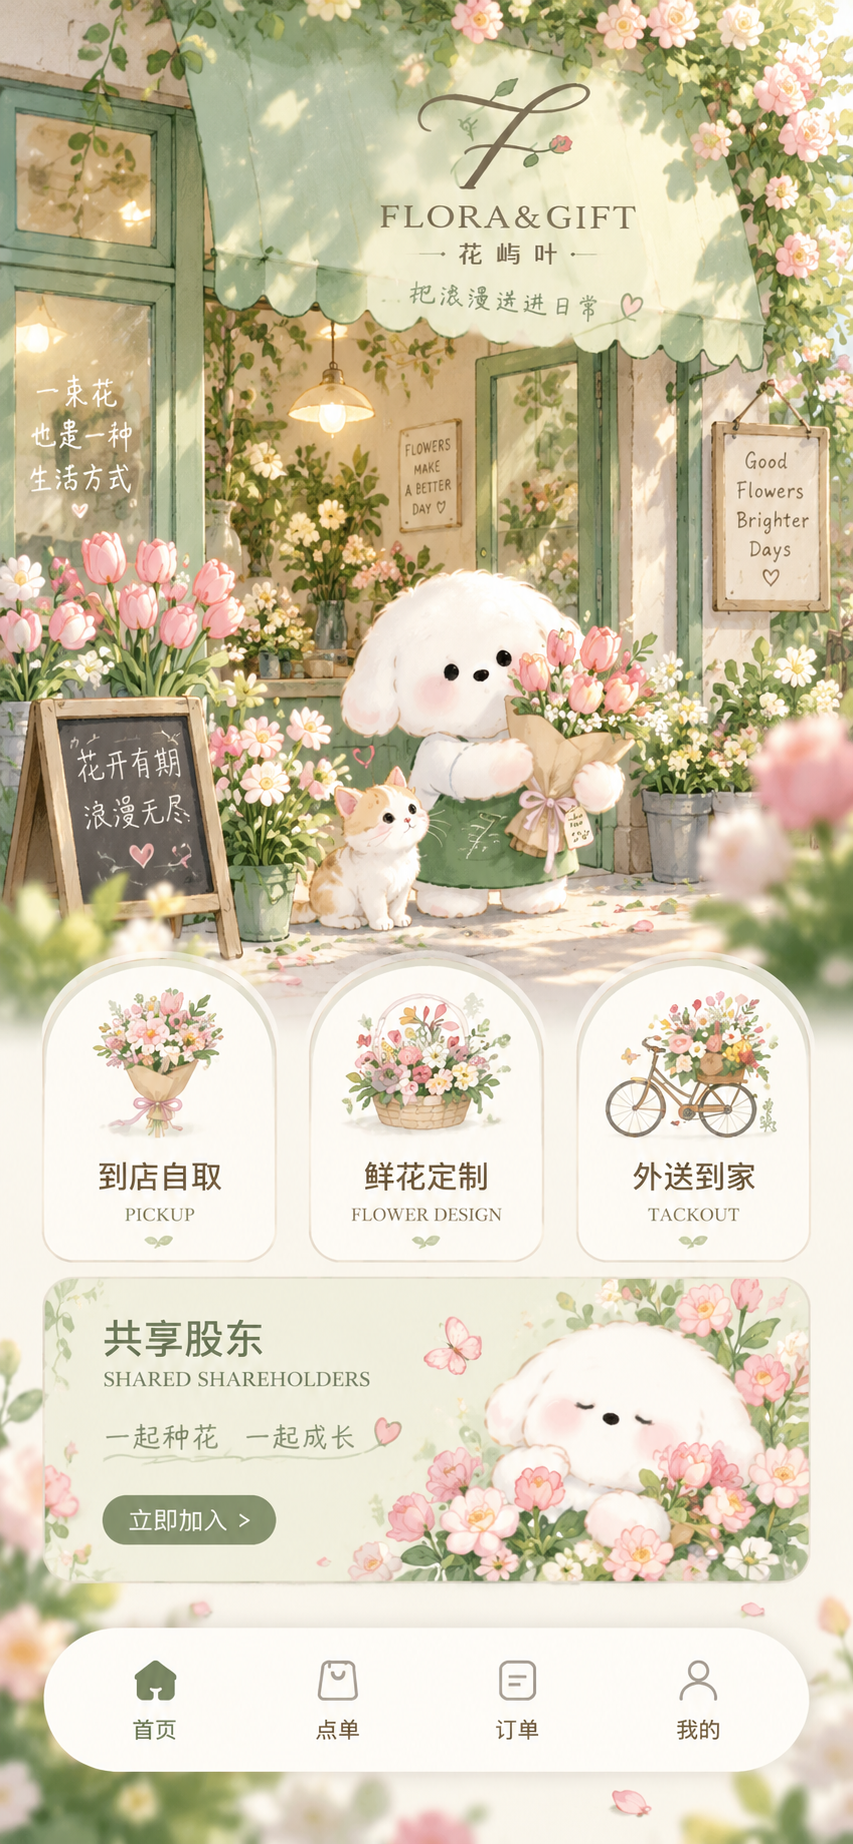
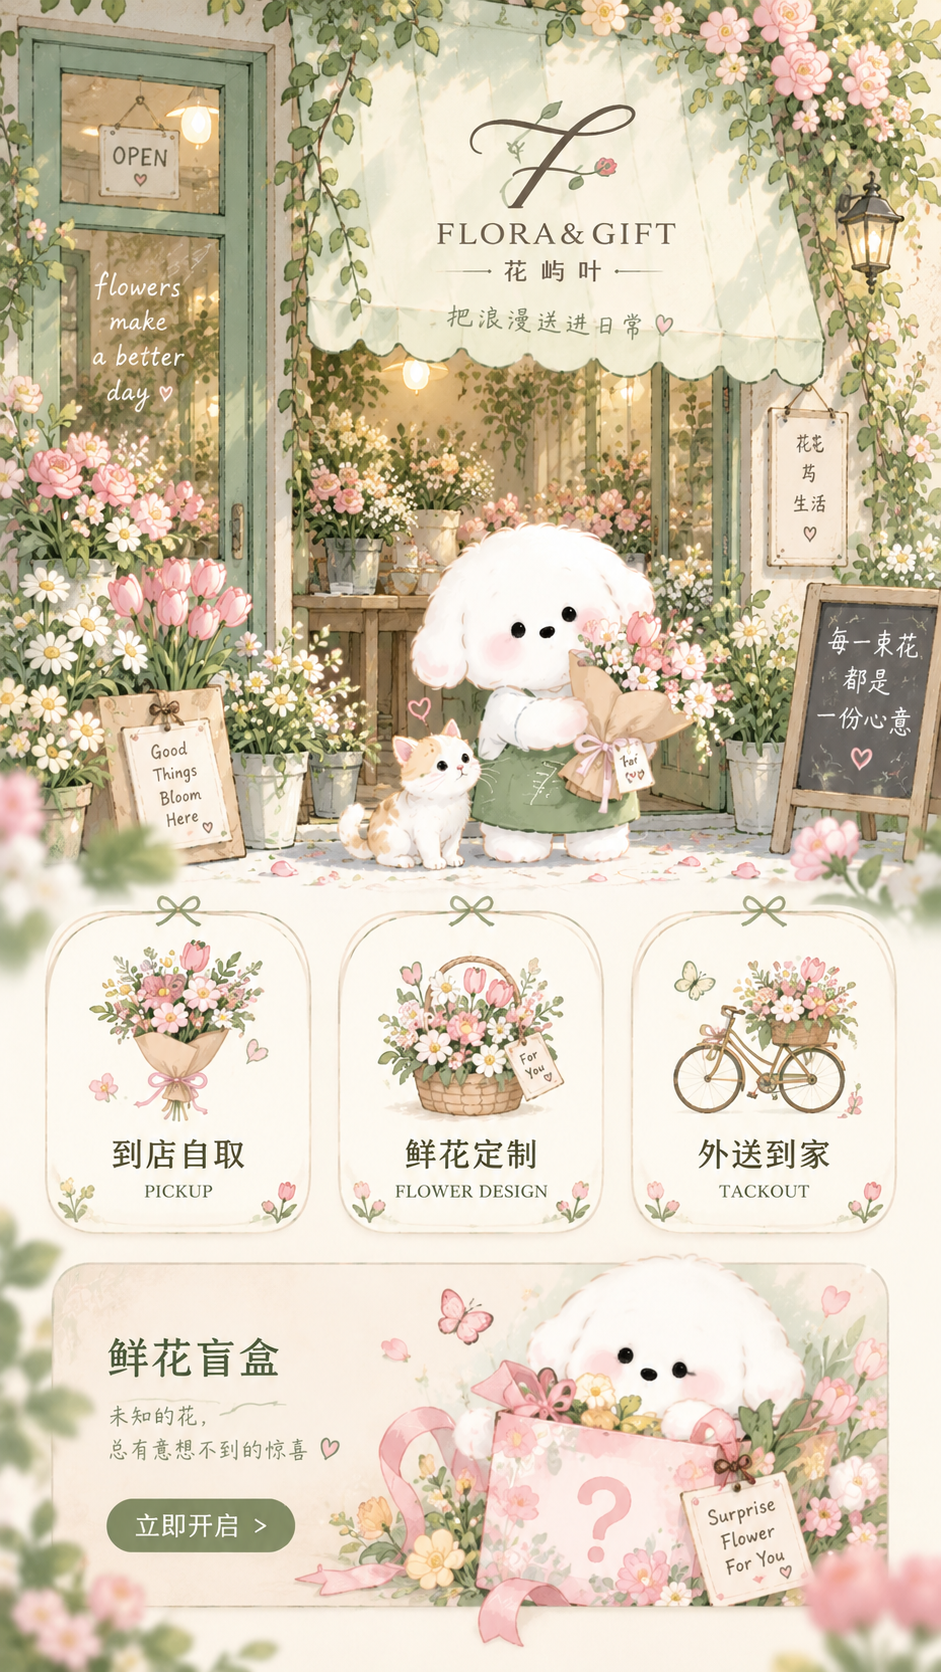
style: swap homepage poster to the new flora gift artwork
Replace the home hero image and retune hotspot regions for pickup,
custom, delivery, and the flower blind-box banner.

diff --git a/flower-shop/miniprogram/pages/index/index.ts b/flower-shop/miniprogram/pages/index/index.ts
@@ -2,9 +2,18 @@ import { api } from '../../services/api';
 
 const FULFILLMENT_KEY = 'fulfillment_pref';
 
+type Hotspot = { top: number; height: number };
+
 Page({
   data: {
     promoProductId: 'p-blindbox',
+    clipHeight: 0,
+    hotspots: {
+      pickup: { top: 0, height: 0 } as Hotspot,
+      custom: { top: 0, height: 0 } as Hotspot,
+      delivery: { top: 0, height: 0 } as Hotspot,
+      promo: { top: 0, height: 0 } as Hotspot,
+    },
   },
   onShow() {
     this.loadHome();
@@ -16,8 +25,32 @@ Page({
         this.setData({ promoProductId: data.promo.productId });
       }
     } catch (e) {
-      // 首页以整图展示为主，接口失败不阻断点击热区
+      // 整图首页可离线展示
     }
+  },
+  onPosterLoad(e: WechatMiniprogram.ImageLoad) {
+    const { width, height } = e.detail;
+    if (!width || !height) return;
+    const sys = wx.getSystemInfoSync();
+    const viewWidth = sys.windowWidth;
+    const viewHeight = (height / width) * viewWidth;
+    // 新图本身无底部假 tab，完整展示
+    const clipHeight = Math.round(viewHeight);
+    const zone = (topRatio: number, heightRatio: number): Hotspot => ({
+      top: Math.round(viewHeight * topRatio),
+      height: Math.round(viewHeight * heightRatio),
+    });
+    this.setData({
+      clipHeight,
+      hotspots: {
+        // 三张服务卡大致在中下部
+        pickup: zone(0.545, 0.155),
+        custom: zone(0.545, 0.155),
+        delivery: zone(0.545, 0.155),
+        // 鲜花盲盒横幅
+        promo: zone(0.72, 0.2),
+      },
+    });
   },
   onAction(e: WechatMiniprogram.TouchEvent) {
     const mode = e.currentTarget.dataset.mode as string;
